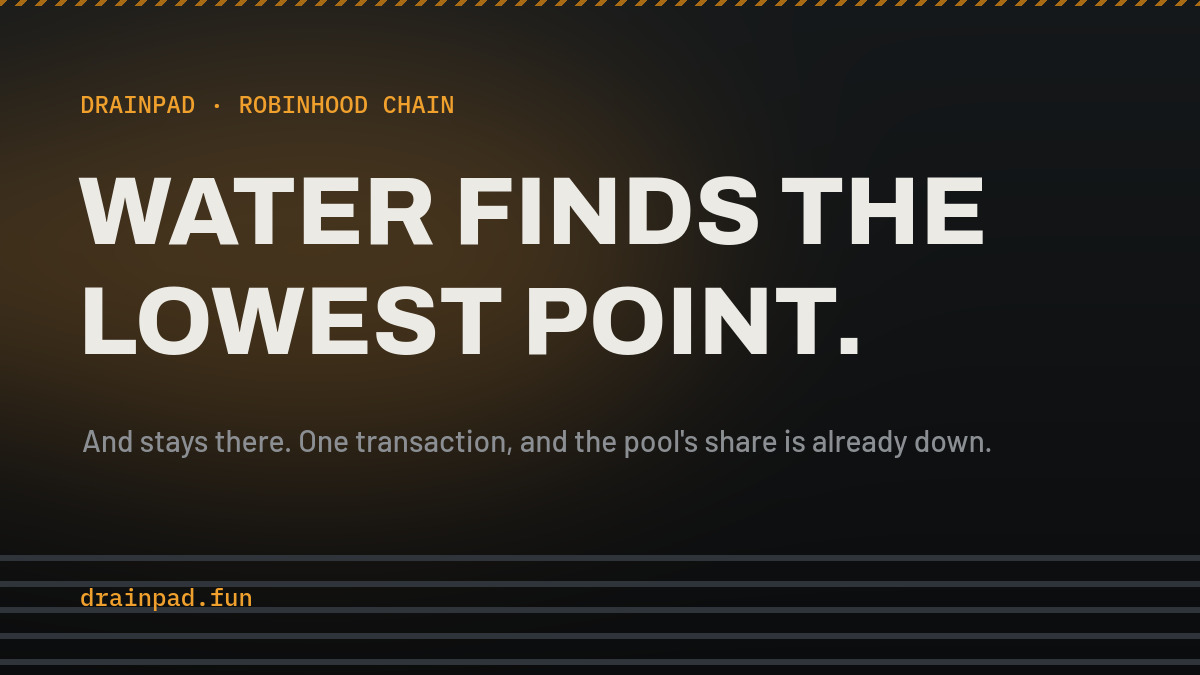
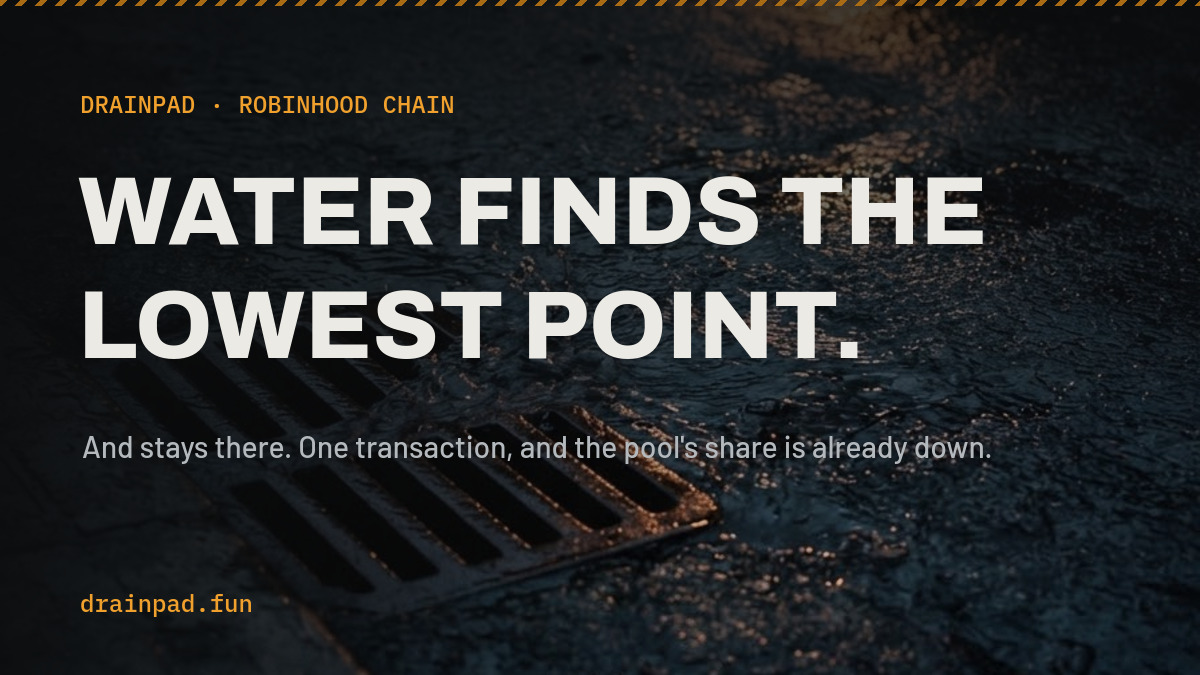
drainpad: the art is in, and every image is set over it
The three Flow renders land as the avatar, the header and the ground the post
cards sit on. compose.sh crops each to what its surface needs, pulls the picture
down from the two edges the type is set against, and leaves it alone everywhere
else — which is where the drain and the reflection are.

The post background is flipped before it is used. The lamp's reflection falls on
the side the headline needs, and dark water under chalk-white letters beats a
scrim heavy enough to sit on a highlight.

Headlines now size themselves. A line is written as words rather than counted in
characters, so one of them is always the one that nearly overflows: `fit` walks
the point size down until it fits the column, which is a better place to find
that out than a screenshot.

A fourth card joins them, for the post that goes up once the token exists. The
link preview is set over the same ground, and the avatar doubles as the touch
icon.

Claude-Session: https://claude.ai/code/session_01CALc84V5VhSxzqBfY1KsjW

diff --git a/drainpad/brand/X-POSTS.md b/drainpad/brand/X-POSTS.md
@@ -114,8 +114,9 @@ Deployer: 0xC064C11de4ED1e61B97F438FC0e1487E34eD8baD
 
 ## 6 · The token, once it is launched
 
-The token's own address goes in the gap. It does not exist until the launch, so
-it is filled in from the receipt rather than typed ahead of time.
+With `out/post-token-1200x675.jpg`. The token's own address goes in the gap — it
+does not exist until the launch, so it is filled in from the receipt rather than
+typed ahead of time.
 
 ```
 $DRAIN is live.
